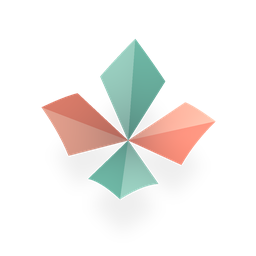
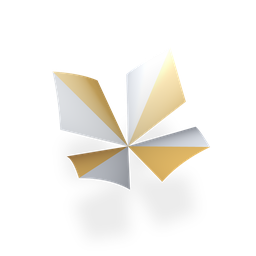
The hero and the header show the gold mark, with a shadow that darkens
The four rasters the site and header load were the seafoam round's renders,
so the palette moved and the mark did not. They now come from the brand
bundle's own gold-and-platinum render (docs/brand/animation/loppa-256.webp and
still/loppa-1024.png), through scripts/brand/blacken-shadow.py: the bundle
bakes a warm-grey shadow that composites as a pale smear on the derived
near-black page, and the same fix the previous pack had — black at a matching
alpha — is applied to its frames rather than re-rendering the identity.

The 512px retina loop is dropped rather than pointed at the 256 file: the
bundle ships no 512 render and upscaling is what USAGE.md forbids. Site.tsx
records the gate to bring back; motion.test.ts holds the phone gate for any 2x
source instead of demanding one.

The sign-in page's wordmark was an unstyled link home, painted in the browser's
#0000ee on the product's front door. login-wordmark.test.ts pins the rule.

Changed region(s): [[0.1562, 0.1562, 0.8438, 0.7812]]

diff --git a/apps/forms/src/site/Site.tsx b/apps/forms/src/site/Site.tsx
@@ -262,20 +262,15 @@ function Landing({ locale, copy }: { locale: string; copy: SiteCopy }) {
             <div className="hero__art" aria-hidden="true">
               <picture>
                 {/*
-                The retina variant is gated to desktop widths, not offered by density alone.
+                One size of the loop, because the brand bundle renders one.
 
-                `2x` on its own would hand a 997 KB animation to any phone with a retina screen,
-                which is most of them, on the connection least able to take it — and the mark is
-                256 CSS px there against 304 on desktop, so it buys the least where it costs the
-                most. Above 900px the figure is larger, the connection is usually not a phone's,
-                and the sharpness is visible.
-              */}
-                <source
-                  media="(prefers-reduced-motion: no-preference) and (min-width: 1200px)"
-                  srcSet="/mark-loop-256.webp 1x, /mark-loop-512.webp 2x"
-                  type="image/webp"
-                />
-                {/*
+                There was a 512px retina variant, gated to desktop widths so no phone fetched a
+                997 KB file to sharpen a mark that is smaller there than on desktop. The gold
+                render exists at 256 and 128 only; a 2x that pointed at the 256 file would cost
+                the bytes and buy nothing, and upscaling a raster is what `docs/brand/USAGE.md`
+                forbids. When `loppa-512.webp` is regenerated from source, the gated source comes
+                back — at 1200px, as before.
+
                 And the animation itself stops at 700px, so a phone never fetches it.
 
                 This source used to have no width gate at all, which meant every phone without a
@@ -285,13 +280,13 @@ function Landing({ locale, copy }: { locale: string; copy: SiteCopy }) {
                 expensive file was the *cheap-sounding* one.
 
                 A `<source>` whose query does not match is never fetched, so below 700px the
-                animation is genuinely absent rather than hidden, and the poster below — 17 KB —
-                is what a phone gets. Measured: 505 KB to 17 KB on every phone landing.
+                animation is genuinely absent rather than hidden, and the poster below — 24 KB —
+                is what a phone gets. Measured: 505 KB to 17 KB on every phone landing under the
+                seafoam render; the gold loop is 1,120 KB and its still 24 KB, so the gate matters
+                more now, not less.
 
-                700px rather than the 900px above it, deliberately. 900 would have collapsed these
-                two sources into one and taken the animation off tablets and small laptop windows
-                too, which is not what was asked for and not where the bandwidth problem is. The
-                gap between them — 700 to 899 — keeps the 1x loop, as it does today.
+                700px rather than a laptop width, deliberately: taking the animation off tablets
+                and small laptop windows is not where the bandwidth problem is.
 
                 `styles.css` hides the pause control under the same 700px, because a control for
                 stopping something that does not move is worse than no control.

diff --git a/apps/forms/src/lib/motion.test.ts b/apps/forms/src/lib/motion.test.ts
@@ -97,19 +97,18 @@ describe('the hero mark', () => {
   });
 
   /**
-   * The 2x animation is a desktop offer, not a density offer.
+   * A 2x animation, if one is offered, is a desktop offer and not a density offer.
    *
-   * `2x` alone would send 997 KB to any retina phone — most of them — on the connection least able
-   * to take it, to sharpen a mark that is *smaller* there than on desktop. The width gate is what
-   * keeps the phone on the 494 KB file.
+   * `2x` alone would send a megabyte to any retina phone — most of them — on the connection least
+   * able to take it, to sharpen a mark that is *smaller* there than on desktop. There is no 2x
+   * source today (the gold render ships at 256 only); this holds the gate for the day it returns,
+   * and cannot pass by finding nothing because the first test above already requires a source.
    */
-  it('keeps the retina variant off phones', () => {
-    const retina = SITE.match(/<source\b[^>]*mark-loop-512[\s\S]*?\/>/)?.[0];
-    expect(retina, 'no 2x source found').toBeDefined();
-    // At least a laptop. The gate moved from 900 to 1200px so a 2x screen that draws the mark at
-    // 304px takes the 506 KB file it cannot tell apart from the 1,021 KB one.
-    const gate = Number(/min-width:\s*(\d+)px/.exec(retina ?? '')?.[1]);
-    expect(gate).toBeGreaterThanOrEqual(900);
+  it('keeps any retina variant off phones', () => {
+    for (const source of SITE.match(/<source\b[^>]*\b2x\b[\s\S]*?\/>/g) ?? []) {
+      const gate = Number(/min-width:\s*(\d+)px/.exec(source)?.[1]);
+      expect(gate, source).toBeGreaterThanOrEqual(900);
+    }
   });
 
   it('falls back to the poster, which is the animation frozen at frame 0', () => {

diff --git a/apps/forms/src/screens/login-wordmark.test.ts b/apps/forms/src/screens/login-wordmark.test.ts
@@ -1,0 +1,29 @@
+import { readFileSync } from 'node:fs';
+import { describe, expect, it } from 'vitest';
+
+/**
+ * The wordmark on the sign-in page is a link home, and a link nobody styles is blue.
+ *
+ * `Login.tsx` wraps `<Wordmark>` in `<a class="login__home">` and nothing in the stylesheet named
+ * it, so the product's own name on its front door painted in the browser's default `#0000ee` —
+ * the one hue on that page that is in no palette, seen by every customer at the one moment the
+ * brand matters most. Found measuring the sign-in page after the palette moved to gold; it had
+ * been there under seafoam too.
+ *
+ * Checked in the source, as the field tests are: there is no DOM in this workspace.
+ */
+const LOGIN = readFileSync(new URL('./Login.tsx', import.meta.url), 'utf8');
+const CSS = readFileSync(new URL('../styles.css', import.meta.url), 'utf8');
+
+describe('the sign-in wordmark', () => {
+  it('is a link home', () => {
+    expect(LOGIN).toMatch(/<a className="login__home" href="\/">\s*<Wordmark/);
+  });
+
+  it('paints in the ink, not the browser’s link blue', () => {
+    const rule = /\.login__home\s*\{([^}]*)\}/.exec(CSS)?.[1];
+    expect(rule, '.login__home has no rule').toBeTruthy();
+    expect(rule).toMatch(/color:\s*(inherit|var\(--tp-colour-(text|heading)\))/);
+    expect(rule).toMatch(/text-decoration:\s*none/);
+  });
+});

diff --git a/apps/forms/src/styles.css b/apps/forms/src/styles.css
@@ -51,6 +51,17 @@ body {
   --tp-measure: var(--tp-content-width);
 }
 
+/*
+ * The wordmark on the sign-in page is a link home, and until this rule it was an unstyled one:
+ * the product's own name on its front door in the browser's `#0000ee`, the one hue on that page
+ * in no palette. The name is read in the ink; the arrow home is the whole lockup.
+ */
+.login__home {
+  display: inline-block;
+  color: inherit;
+  text-decoration: none;
+}
+
 .stack {
   display: flex;
   flex-direction: column;
@@ -4466,7 +4477,7 @@ body:has(.app) > #root {
 /*
  * Below 700px the hero is a still image, so the same reasoning applies.
  *
- * `Site.tsx` gates the animated `<source>` at `min-width: 700px` to keep 505 KB of WebP off
+ * `Site.tsx` gates the animated `<source>` at `min-width: 700px` to keep 1,120 KB of WebP off
  * phones; what is left there is the poster, which does not move. WCAG 2.2.2 asks for a way to stop
  * motion, not for a button that stops nothing — and a pause control on a static image is a promise
  * the page does not keep.

diff --git a/apps/forms/src/site/hero-motion.test.ts b/apps/forms/src/site/hero-motion.test.ts
@@ -2,7 +2,7 @@ import { readFileSync } from 'node:fs';
 import { describe, expect, it } from 'vitest';
 
 /**
- * The hero animation costs 505 KB, and the rule is that no phone pays it.
+ * The hero animation costs 1,120 KB, and the rule is that no phone pays it.
  *
  * This is a regression test for a defect that shipped and survived a design critique: the 2x
  * variant was gated to desktop widths and the animation itself was not, so every phone without a

diff --git a/scripts/brand/blacken-shadow.py b/scripts/brand/blacken-shadow.py
@@ -1,0 +1,56 @@
+"""
+A shadow is an absence of light, so it is black.
+
+The brand bundle's renders bake their drop shadow as a warm grey — rgb(119, 111, 103) at alpha 39
+in `still/loppa-1024.png` — chosen to sit on white. Alpha fixes the *background* on a dark page and
+cannot fix that: over `#0e0e10` the grey composites as a pale smear under the mark, lightening
+exactly where a shadow should darken. `build-animation-pack.py` learned this for the previous
+palette; this does the same to the bundle's own frames rather than re-rendering the mark, because
+the render is the identity and the shadow is not.
+
+Shadow pixels are the semi-transparent ones with no metal in them (every channel under 140). The
+mark's anti-aliased edges are semi-transparent too, but they carry gold or platinum and stay.
+Black at alpha 14 lands where grey at 39 did over white, so the light page does not change.
+
+    py -3 scripts/brand/blacken-shadow.py
+
+Writes apps/forms/public/mark-loop-256.webp, mark-poster-256.png and mark-angled-256.png from
+docs/brand/animation/loppa-256.webp and docs/brand/still/loppa-1024.png.
+"""
+from PIL import Image, ImageSequence
+
+SRC_LOOP = "docs/brand/animation/loppa-256.webp"
+SRC_STILL = "docs/brand/still/loppa-1024.png"
+OUT = "apps/forms/public"
+
+
+def blacken(frame: Image.Image) -> Image.Image:
+    frame = frame.convert("RGBA")
+    px = frame.load()
+    w, h = frame.size
+    for y in range(h):
+        for x in range(w):
+            r, g, b, a = px[x, y]
+            if 0 < a < 250 and max(r, g, b) < 140:
+                px[x, y] = (0, 0, 0, round(a * 14 / 39))
+    return frame
+
+
+still = blacken(Image.open(SRC_STILL)).resize((256, 256), Image.LANCZOS)
+still.save(f"{OUT}/mark-poster-256.png", optimize=True)
+still.save(f"{OUT}/mark-angled-256.png", optimize=True)
+
+loop = Image.open(SRC_LOOP)
+frames = [blacken(f) for f in ImageSequence.Iterator(loop)]
+durations = [f.info.get("duration", loop.info.get("duration", 40)) for f in ImageSequence.Iterator(loop)]
+frames[0].save(
+    f"{OUT}/mark-loop-256.webp",
+    save_all=True,
+    append_images=frames[1:],
+    duration=durations,
+    loop=0,
+    lossless=False,
+    quality=85,
+    method=6,
+)
+print(f"{len(frames)} frames; durations {min(durations)}–{max(durations)} ms")
